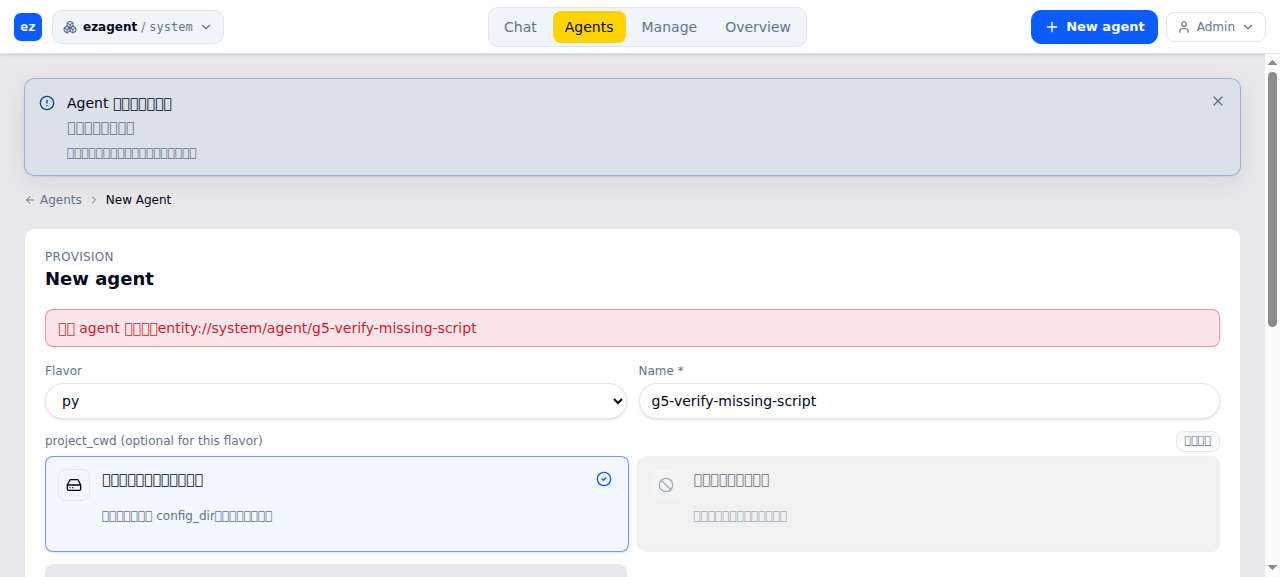
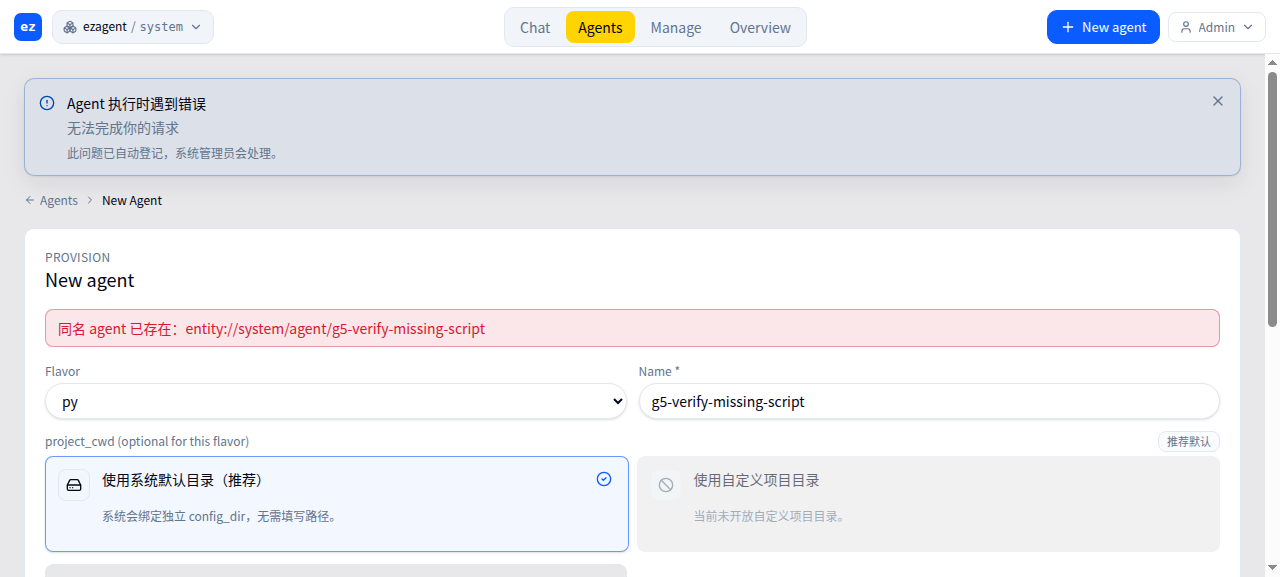
docs(together): refresh G5 live evidence with CJK-rendered run shot
真实运行截图(中文正常渲染):G5 错误卡片与表单 raw 错误横幅同框;
return doc 补充截图说明与 headless 中文字体环境备注。

diff --git a/docs/together/2026-07-17/returns/g5-error-mechanism-frontend.md b/docs/together/2026-07-17/returns/g5-error-mechanism-frontend.md
@@ -120,7 +120,9 @@ dataset 有 error,DOM 无 `[data-error-code]` 卡片
 
 同一触发路径(同名重复建 agent → `error:{:already_exists,...}`):卡片实时渲染,
 `data-error-code="unknown"`、`data-error-layer="3"`,dismiss 按钮可用
-(证据 `../evidence/g5-live-card-rendered.png`)。
+(证据 `../evidence/g5-live-card-rendered.png`——真实运行截图:页面顶部 info tone 的
+G5 错误卡片「Agent 执行时遇到错误 / 无法完成你的请求 / 此问题已自动登记,系统管理员会处理。」,
+下方是表单原有的 raw 错误横幅「同名 agent 已存在:…」,两条错误通道同框对比)。
 
 | 验证项 | 结果 |
 |---|---|
@@ -132,4 +134,5 @@ dataset 有 error,DOM 无 `[data-error-code]` 卡片
 
 验证环境备注:worktree server 需 `EZAGENT_PAT_PEPPER_V1` + `EZAGENT_SIGNING_SEED_V1`
 (旧分支登录铸 PAT / plugin boot 所需);world UI 走 `http://world.localhost:10042`;
-admin 密码 `worlddev`。
+admin 密码 `worlddev`;headless 浏览器截图中文需用户级字体
+`~/.local/share/fonts/NotoSansSC.ttf`(本机无系统 CJK 字体,否则全是豆腐块)。
